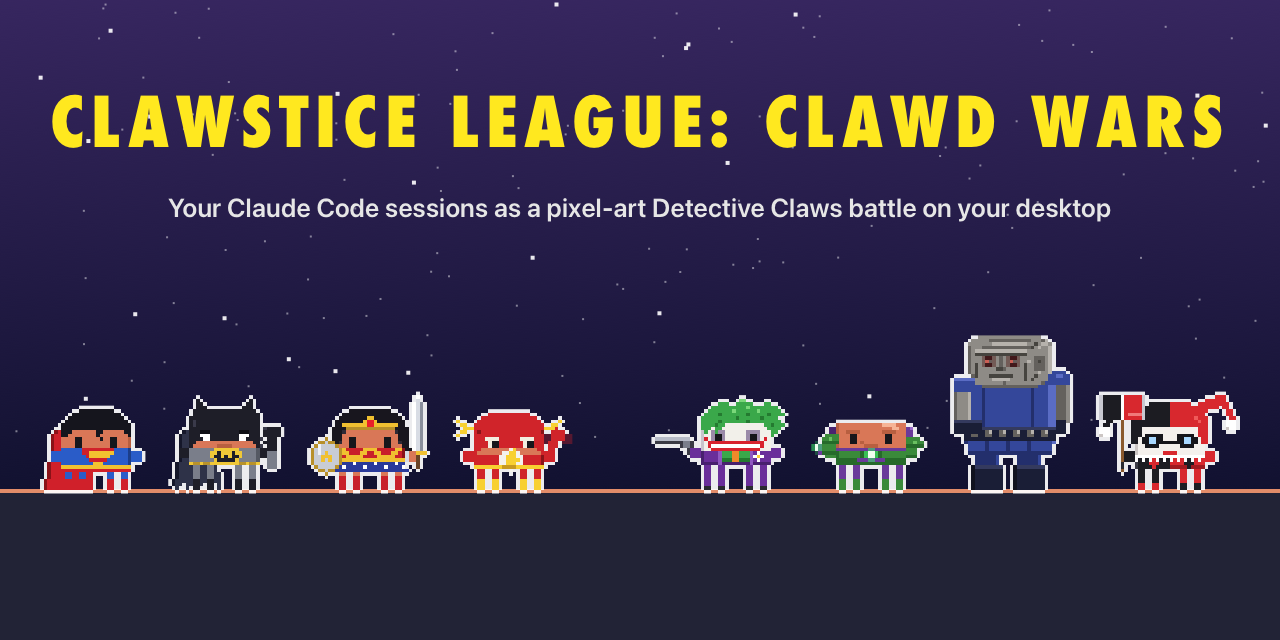
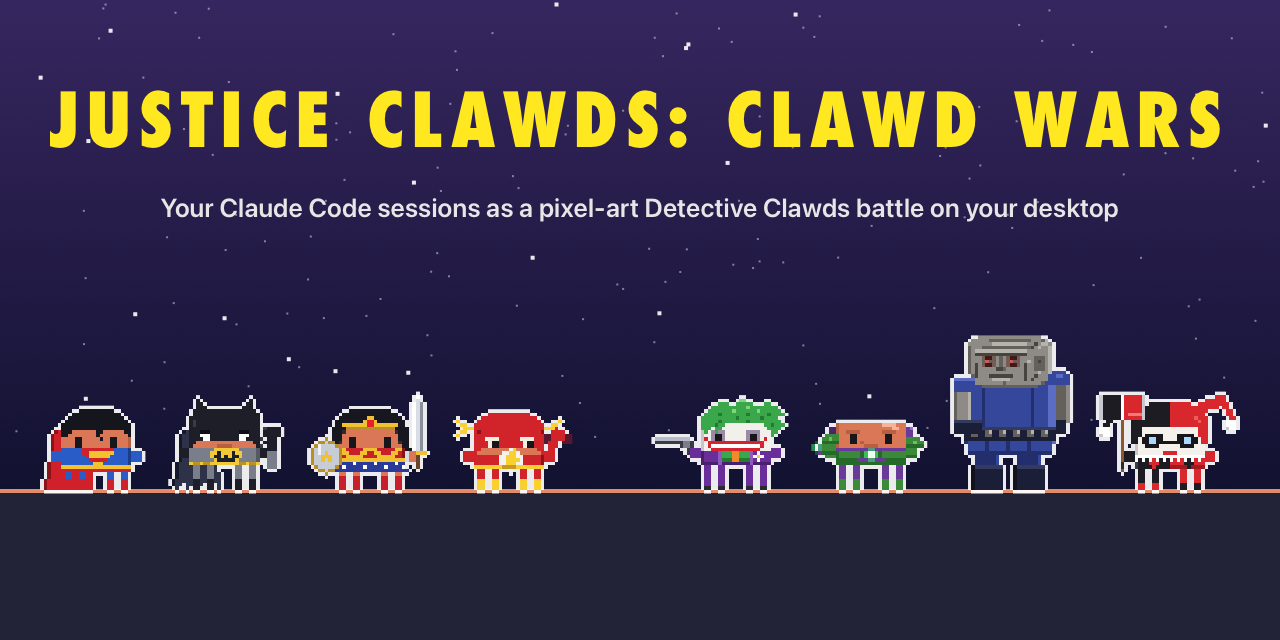
docs!: this page is Justice Clawds: Clawd Wars, in Detective Clawds
The team is the Justice Clawds and the universe Detective Clawds, with the
Hall of Clawds, since everyone is Clawd but few have claws. The repo is now
justice-clawds-clawd-wars and so is the cask. The place sheet and social
preview are re-rendered.

Changed region(s): [[0.0312, 0.125, 0.9688, 0.25], [0.125, 0.3125, 0.875, 0.3438]]

diff --git a/README.md b/README.md
@@ -1,11 +1,11 @@
 <p align="center">
-  <img src="docs/app-icon.png" width="180" alt="Clawstice League: Clawd Wars icon: the Jester levelling his revolver at Batclaw under the Night Beacon in a Gothamburg night sky">
+  <img src="docs/app-icon.png" width="180" alt="Justice Clawds: Clawd Wars icon: the Jester levelling his revolver at Batclaw under the Night Beacon in a Gothamburg night sky">
 </p>
 
-<h1 align="center">Clawstice League: Clawd Wars</h1>
+<h1 align="center">Justice Clawds: Clawd Wars</h1>
 
 <p align="center">
-  <b>Your Claude Code, Codex, Qwen Code, Gemini CLI and GitHub Copilot CLI sessions, as a pixel-art Detective Claws battle on your desktop.</b><br>
+  <b>Your Claude Code, Codex, Qwen Code, Gemini CLI and GitHub Copilot CLI sessions, as a pixel-art Detective Clawds battle on your desktop.</b><br>
   Every session is a hero or a villain, every subagent joins in, and they fight while they work.
 </p>
 
@@ -21,7 +21,7 @@ https://github.com/user-attachments/assets/4e242255-e81c-4404-b4f0-06c967dc8a56
 
 <p align="center"><sub>🔊 <b>Click the speaker in the player for sound</b>: GitHub starts videos muted. Full 1080p version: <a href="promo/justice-league-clawd-wars-promo.mp4">promo/justice-league-clawd-wars-promo.mp4</a></sub></p>
 
-> **Clawstice League: Clawd Wars is now part of [Clawd Clash](https://github.com/rodclemen/clawd-clash)**, one app with three universes. This page shows off its Detective Claws universe; the app, its source and everything else live over there. [Get it below.](#get-it)
+> **Justice Clawds: Clawd Wars is now part of [Clawd Clash](https://github.com/rodclemen/clawd-clash)**, one app with three universes. This page shows off its Detective Clawds universe; the app, its source and everything else live over there. [Get it below.](#get-it)
 
 <p align="center">
   <img src="docs/desktop.png" alt="Sessions and agents fighting along the bottom of the screen: Sinistro blasting Superb-Man in the air, Emerald Archer and Captain Chill trading shots, Batclaw and Bain, Wondrous Woman's bracelets against Lex Lugar's warsuit">
@@ -32,7 +32,7 @@ https://github.com/user-attachments/assets/4e242255-e81c-4404-b4f0-06c967dc8a56
 ## Contents
 
 - [What it is](#what-it-is)
-- [Detective Claws](#detective-claws)
+- [Detective Clawds](#detective-claws)
 - [The roster](#the-roster)
 - [The places](#the-places)
 - [Window mode and the screen saver](#window-mode-and-the-screen-saver)
@@ -43,7 +43,7 @@ https://github.com/user-attachments/assets/4e242255-e81c-4404-b4f0-06c967dc8a56
 
 You run Claude Code in three terminals. One is thinking, one is waiting for your permission, one finished ten minutes ago and you didn't notice. You alt-tab around to find out.
 
-**Clawd Clash tells you at a glance, without switching windows**, and in Detective Claws it does it with the Clawstice League and their rogues.
+**Clawd Clash tells you at a glance, without switching windows**, and in Detective Clawds it does it with the Justice Clawds and their rogues.
 
 - **Working?** Your Claude fights: Batclaw throws punches, Superb-Man fires heat vision from his eyes, Green Lamplighter fires his ring.
 - **Thinking?** A thought bubble.
@@ -52,11 +52,11 @@ You run Claude Code in three terminals. One is thinking, one is waiting for your
 - **Spawned subagents?** They walk (or fly, or swing on a grapnel line) in one by one, each labelled with what it's doing, and leave when they finish.
 - **Hover** any character for the details; **click** it to jump straight to that session's terminal or editor tab.
 
-**Claude Code plays the heroes.** Run it alongside Codex, Qwen Code, Gemini CLI or GitHub Copilot CLI and Claude's sessions and agents are the Clawstice League and friends, while the other AI's are the Jester, Lex Lugar, Darksyde and the rest. With only Claude running, anyone can turn up. Each AI keeps its own outline colour, so you can tell them apart at a glance.
+**Claude Code plays the heroes.** Run it alongside Codex, Qwen Code, Gemini CLI or GitHub Copilot CLI and Claude's sessions and agents are the Justice Clawds and friends, while the other AI's are the Jester, Lex Lugar, Darksyde and the rest. With only Claude running, anyone can turn up. Each AI keeps its own outline colour, so you can tell them apart at a glance.
 
-## Detective Claws
+## Detective Clawds
 
-- **207 characters**: 110 heroes and 97 villains, from the Clawstice League, the Batclaw family and the Green Lamplighter Corps to Batclaw's and Superb-Man's rogues, Apocaclaws and the Legion of Gloom. Every one is Clawd (Claude Code's little pixel mascot) in costume, drawn in code.
+- **207 characters**: 110 heroes and 97 villains, from the Justice Clawds, the Batclaw family and the Green Lamplighter Corps to Batclaw's and Superb-Man's rogues, Apocaclaws and the Legion of Gloom. Every one is Clawd (Claude Code's little pixel mascot) in costume, drawn in code.
 - **43 places**, from the Lookout and the Night Grotto to Ohh and the Hall of Gloom, each with something moving.
 - **Arch-enemies face off first**: whenever both are fighting, Batclaw takes on the Jester (or Bain, Ra's al Ghoul, the Puzzler…), Superb-Man takes Lex Lugar, Judgment Day or General Zed, Wondrous Woman the Jaguar or Ares, the Flare Reverse-Flare, Green Lamplighter Sinistro, Aquamarine Black Stingray, Captain Thunderbolt Black Abel, Corvina Trigun, Orrion Darksyde, and more, wherever they are in the line.
 - **The Lance and the Clawwing**: Emerald Archer, Black Finch and the other Leaguers who don't fly are picked up by the Lance; the Batclaw family by the Clawwing.
@@ -68,7 +68,7 @@ You run Claude Code in three terminals. One is thinking, one is waiting for your
 ## The roster
 
 <p align="center">
-  <img src="docs/roster.png" alt="All 207 Detective Claws heroes and villains" width="760">
+  <img src="docs/roster.png" alt="All 207 Detective Clawds heroes and villains" width="760">
 </p>
 
 **110 heroes**: Superb-Man, Batclaw, Wondrous Woman, The Flare, Green Lamplighter, Aquamarine, Cyb-Org, Martian Man-Seeker, Emerald Archer, Black Finch, Captain Thunderbolt, Wren, Nightglider, Batclaw Girl, Red Cowl, Red Wren, Cat Burglar, The Huntswoman, Batclaw Woman, The Foundling, Spoilsport, Commissioner Gordo, Superb-Girl, Superb-Boy, Powerful Gal, Steelworks, Jon Kant, Lois Lain, Jimmy Olson, Alfrid the Butler, Lucius Fax, Kryptro, John Steward, Guy Garden, Kyle Rayder, Jessica Cruise, Simon Bas, Kilowag, Tomar-Ru, Ch'pp, Adam Stranger, Hawk-Warrior, Hawk-Maiden, Wally Wes, Jay Carrick, Impulsive, Jessie Quik, Corvina, Feral Boy, Starblaze, Wondrous Girl, Aquamarine Lad, Armoury, Alan Scotch, Doctor Fortune, Minuteman, Star Lass, Alley Cat, Atom Crusher, Twister, Doctor Midnight, The Sleepmaker, Mister Tremendous, Zatanya, Constantin, Bog Thing, Dead Acrobat, The Spook, Etrigal, Madame Xanadoo, Phantom Wanderer, Rag-and-Bone Man, The Dreamer, Blue Scarab, Booster Bling, The Molecule, Flamestorm, Rubber Man, Stretched Man, Vixxen, Black Thunderbolt, The Query, Metamorph, Red Twister, Captain Nucleus, Merra, Artemis, Donna Troya, Nubia, Hippolyta, Steve Trevon, Mister Marvellous, Big Bertha, Orrion, Creature Man, Katanah, Peacekeeper, Bloodsprint, Rat Charmer, Shark King, Spotty Man, Saturn Lass, Cosmos Boy, Thunderbolt Lad, Zann, Jaina, Ace the Batclaw Hound, Streaker, Gleeb and Bippo. Kryptro, Ch'pp, Ace, Streaker, Gleeb and Bippo only ever show up as agents.
@@ -80,10 +80,10 @@ You run Claude Code in three terminals. One is thinking, one is waiting for your
 The scene is set **where the first session's character belongs**: the Fortress of Loneliness for Superb-Man, the Night Grotto for Batclaw, Themyskira for Wondrous Woman, Apocaclaws for Darksyde. Something moves in every one: the Night Beacon on the clouds over rainy Gothamburg, the Daily Globe's globe turning while a red-blue blur streaks past, bats round the Night Grotto's waterfall, the aurora over the Fortress of Loneliness, the Earth turning below the Lookout's window as the Lance glides by, searchlights and lightning over Ashcombe Asylum, Green Lamplighters streaking past the power battery on Ohh, Paradevils over Apocaclaws' fire pits, Kryptron quaking under its red sun, acid bubbling at Acme Chemicals, the Kryptronite glowing in Lex Lugar's office, lightning striking the wizard's throne on the Rock of Forever, Brain-o-Tron's face looming over Kandoor's bell, the fire and the stopped grandfather clock in Payne Manor, and the Hall of Gloom's eyes glowing over the swamp.
 
 <p align="center">
-  <img src="docs/locations.png" alt="All 43 Detective Claws places" width="760">
+  <img src="docs/locations.png" alt="All 43 Detective Clawds places" width="760">
 </p>
 
-**43 places**: Megalopolis, Gothamburg, the Night Grotto, the Fortress of Loneliness, Themyskira, Atlantis, the Lookout, the Hall of Clawstice, Ashcombe Asylum, Centre City, Star Harbour, Ohh, Apocaclaws, Kryptron, Clawtans Tower, Smallburg, Striker's Rock, Bayou Penitentiary, Nanga Parbat, the House of Riddles, the Rock of Forever, New Genesys, Thanagor, Kandoor, the Phantasm Zone, Khandaq, Iron Hills Prison, the Speed Source, Payne Manor, the Legion of Super-Clawds HQ, Acme Chemicals, LugarCorp Tower, the Louisiana Bayou, the Dreamlands, Shore City, Ape City, Korugor, Battleworld, Bloodhaven, CSA Headquarters, Faucet City, S.C.A.R. Labs and the Hall of Gloom.
+**43 places**: Megalopolis, Gothamburg, the Night Grotto, the Fortress of Loneliness, Themyskira, Atlantis, the Lookout, the Hall of Clawds, Ashcombe Asylum, Centre City, Star Harbour, Ohh, Apocaclaws, Kryptron, Clawtans Tower, Smallburg, Striker's Rock, Bayou Penitentiary, Nanga Parbat, the House of Riddles, the Rock of Forever, New Genesys, Thanagor, Kandoor, the Phantasm Zone, Khandaq, Iron Hills Prison, the Speed Source, Payne Manor, the Legion of Super-Clawds HQ, Acme Chemicals, LugarCorp Tower, the Louisiana Bayou, the Dreamlands, Shore City, Ape City, Korugor, Battleworld, Bloodhaven, CSA Headquarters, Faucet City, S.C.A.R. Labs and the Hall of Gloom.
 
 ## Window mode and the screen saver
 
@@ -95,25 +95,25 @@ It opens in a window by default (switch to the desktop from the menu): the whole
 
 **The screen saver** (Settings… → Screen Saver → Install…) shows the place full screen with the crew fighting across its floor, a card per session, name tags, a clock and a crawl of what happened lately, and moves somewhere new every 10 minutes with one of the fifteen transitions. With nothing running, it puts on a show of its own: a random crew of heroes against villains.
 
-**Two more universes come with it**: **Star Claws** and **Clawvel**. Pick one in **Settings… → Universe**, or pick **Random** and it changes universe on its own every 1, 5, 10, 15, 30 or 60 minutes. A scene never mixes them.
+**Two more universes come with it**: **Star Clawds** and **Marvelous Clawds**. Pick one in **Settings… → Universe**, or pick **Random** and it changes universe on its own every 1, 5, 10, 15, 30 or 60 minutes. A scene never mixes them.
 
 ## Get it
 
-Clawstice League: Clawd Wars is now part of **[Clawd Clash](https://github.com/rodclemen/clawd-clash)**. It needs macOS 13+ (Apple Silicon or Intel) and at least one of Claude Code, Codex, Qwen Code, Gemini CLI or GitHub Copilot CLI.
+Justice Clawds: Clawd Wars is now part of **[Clawd Clash](https://github.com/rodclemen/clawd-clash)**. It needs macOS 13+ (Apple Silicon or Intel) and at least one of Claude Code, Codex, Qwen Code, Gemini CLI or GitHub Copilot CLI.
 
 ```sh
-brew install --cask rodclemen/tap/clawstice-league-clawd-wars
+brew install --cask rodclemen/tap/justice-clawds-clawd-wars
 ```
 
-That installs Clawd Clash starting in Detective Claws. `brew install --cask rodclemen/tap/clawd-clash` installs the same app, or download the zip from [Clawd Clash's Releases](https://github.com/rodclemen/clawd-clash/releases), unzip it and drag **Clawd Clash** to Applications.
+That installs Clawd Clash starting in Detective Clawds. `brew install --cask rodclemen/tap/clawd-clash` installs the same app, or download the zip from [Clawd Clash's Releases](https://github.com/rodclemen/clawd-clash/releases), unzip it and drag **Clawd Clash** to Applications.
 
-Already have the old app? Clawd Clash takes over the AIs it had connected and starts in Detective Claws, so the old app can go.
+Already have the old app? Clawd Clash takes over the AIs it had connected and starts in Detective Clawds, so the old app can go.
 
 Setup, permissions, building from source, uninstalling and everything else: see the [Clawd Clash README](https://github.com/rodclemen/clawd-clash#readme).
 
 ## What's new
 
-See [CHANGELOG.md](CHANGELOG.md) for what's new in Clawstice League: Clawd Wars, in plain language.
+See [CHANGELOG.md](CHANGELOG.md) for what's new in Justice Clawds: Clawd Wars, in plain language.
 
 ## License
 

diff --git a/CHANGELOG.md b/CHANGELOG.md
@@ -1,13 +1,13 @@
-# What's new in Clawstice League: Clawd Wars
+# What's new in Justice Clawds: Clawd Wars
 
-The changes you'd notice in Detective Claws, newest first. The full, detailed history lives in [Clawd Clash](https://github.com/rodclemen/clawd-clash/blob/main/CHANGELOG.md).
+The changes you'd notice in Detective Clawds, newest first. The full, detailed history lives in [Clawd Clash](https://github.com/rodclemen/clawd-clash/blob/main/CHANGELOG.md).
 
 ## 3.0.0: joins Clawd Clash
 
-- **Clawstice League: Clawd Wars is now part of Clawd Clash**, one app with three universes: Detective Claws, Star Claws and Clawvel. The whole cast, every place and all fifteen comic-book transitions came along.
+- **Justice Clawds: Clawd Wars is now part of Clawd Clash**, one app with three universes: Detective Clawds, Star Clawds and Marvelous Clawds. The whole cast, every place and all fifteen comic-book transitions came along.
 - **New names and redrawn emblems.** Everyone and everywhere has a parody name now (Batclaw, Superb-Man, Wondrous Woman, the Flare, the Jester, the Lookout, Gothamburg, the Night Grotto…). Superb-Man wears a C-shield, the Batclaw family a cowl mask (two pointed ears over a domino mask), the Lamplighters a lamp, the speedsters a flame; the Night Beacon lights the sky, Batclaw throws a clawarang, and the Lance's tail fin reads CL.
-- **Upgrading takes care of itself.** The Homebrew cask `clawstice-league-clawd-wars` installs Clawd Clash starting in Detective Claws; Clawd Clash takes over the AIs the old app had connected and quits the old app.
-- **Pick a universe, or let it pick.** Settings → Universe switches between Detective Claws, Star Claws and Clawvel; switching recasts everyone on screen. **Random** changes universe on its own every 1, 5, 10, 15, 30 or 60 minutes, and in the window the whole window changes over with the new universe's transition.
+- **Upgrading takes care of itself.** The Homebrew cask `justice-clawds-clawd-wars` installs Clawd Clash starting in Detective Clawds; Clawd Clash takes over the AIs the old app had connected and quits the old app.
+- **Pick a universe, or let it pick.** Settings → Universe switches between Detective Clawds, Star Clawds and Marvelous Clawds; switching recasts everyone on screen. **Random** changes universe on its own every 1, 5, 10, 15, 30 or 60 minutes, and in the window the whole window changes over with the new universe's transition.
 - **A Settings window.** Settings… (⌘,) puts every option in one place: universe, window, desktop, which AIs are connected, the screen saver. The menu is shorter.
 - **The window steps aside** when no AI is running, and fades back when one starts.
 - **Keep Characters on Top**: off, the desktop crew stands just above your desktop icons and behind your windows.
